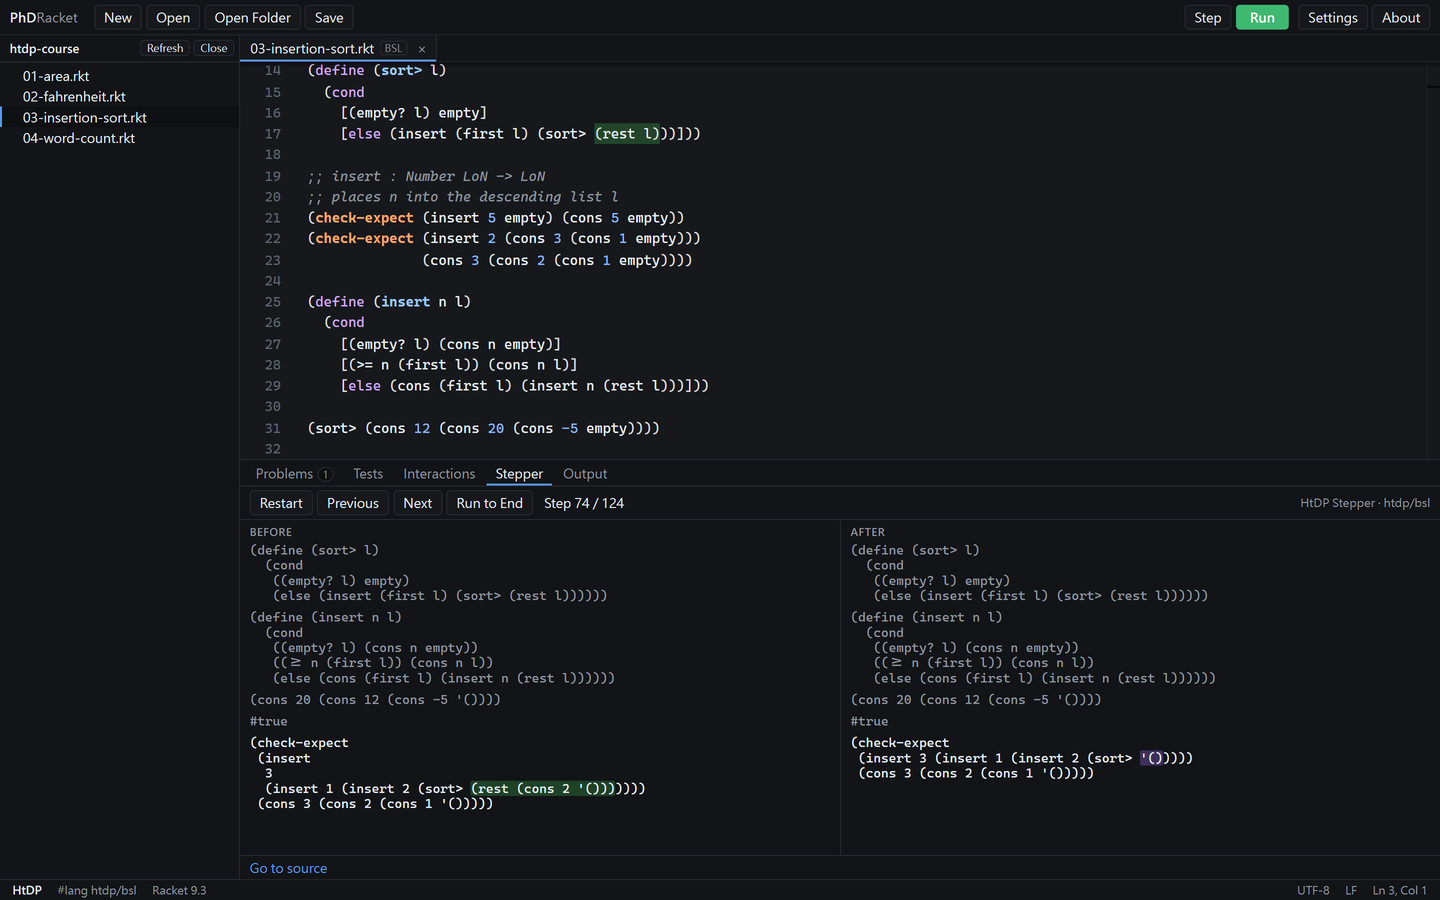
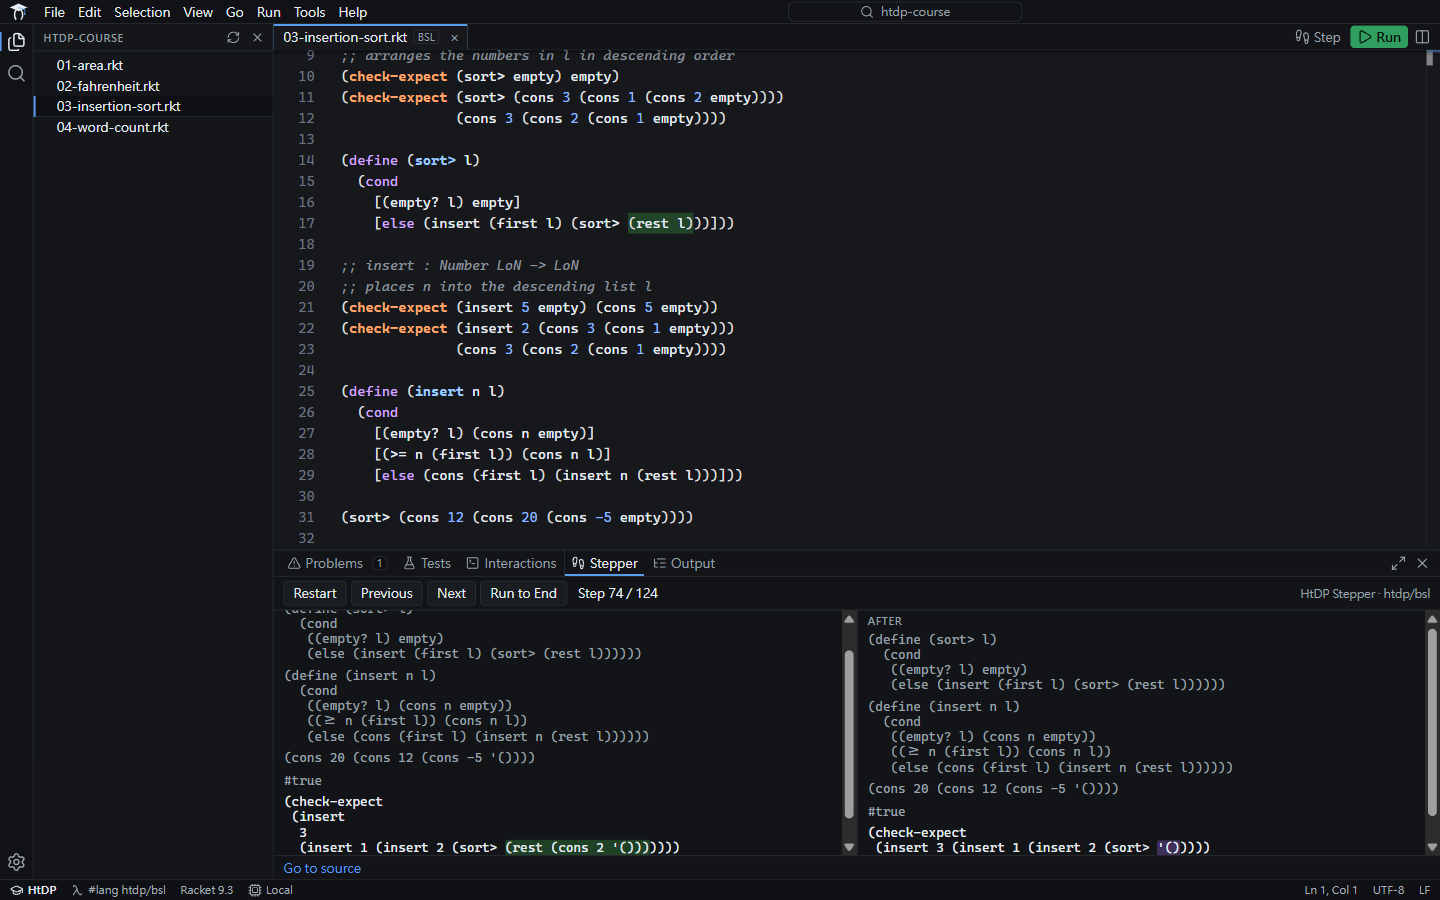
Update the documentation for 0.1.1 Beta
Release notes, the illustrated introduction rewritten for the workbench
with new screenshots (taken by apps/desktop/e2e/screenshots.mjs), and
the README status.

diff --git a/docs/introducing-phdracket.md b/docs/introducing-phdracket.md
@@ -2,9 +2,9 @@
 
 PhDRacket is a desktop IDE for students who write course work in the *How to Design Programs* (HtDP) teaching languages. It runs programs in the official Racket installation on your computer, through the same HtDP entry points that DrRacket uses, and it keeps `.rkt` files exactly as DrRacket expects them. You can move between the two editors at any time.
 
-What PhDRacket changes is the editing experience: tabs, a folder explorer, a modern editor, a dedicated test panel and an integrated Stepper.
+What PhDRacket changes is the editing experience: a full desktop workbench with menus, a command palette, split editors, a folder explorer, a dedicated test panel and an integrated Stepper.
 
-This article walks through the main features using a small example: insertion sort written with the HtDP design recipe in `#lang htdp/bsl`, with a data definition, signatures, purpose statements and four `check-expect` tests.
+This article walks through the main features using a small example: insertion sort written with the HtDP design recipe in `#lang htdp/bsl`, with a data definition, signatures, purpose statements and four `check-expect` tests. The screenshots show PhDRacket 0.1.1 Beta.
 
 ![The official HtDP Stepper, showing each reduction step side by side](images/introducing/01-stepper-dark.png)
 
@@ -14,12 +14,12 @@ This article walks through the main features using a small example: insertion so
 
 The layout follows the model HtDP courses already teach: Definitions in the editor, Interactions below.
 
-- **Run** evaluates the Definitions in a fresh environment, prints the values of top-level expressions and runs every test.
+- **Run** (Ctrl+Enter, or the green button above the editor) evaluates the Definitions in a fresh environment, prints the values of top-level expressions and runs every test.
 - **Interactions** evaluate in that environment, with input history and multi-line input.
 - **Stale-state notice.** If the Definitions change after a Run, the Interactions panel says so, so that new code is not tested against old definitions.
 - **Teaching-language rules apply.** In the screenshot, Beginning Student rejects `lambda`. The error message comes from Racket itself, with its source location.
 
-The folder explorer on the left opens an entire course or assignment directory, and files open in tabs.
+The Explorer on the left opens an entire course or assignment folder, and files open in tabs.
 
 ## Tests
 
@@ -42,17 +42,30 @@ The Stepper is one of the most effective tools in an HtDP course for understandi
 - **Source highlighting.** The expression being evaluated is highlighted in the editor, and *Go to source* jumps to it.
 - **Keyboard navigation** between steps.
 
-In the first screenshot, `(sort> (cons 3 (cons 1 (cons 2 '()))))` has unfolded into `(insert 3 (insert 1 (insert 2 (sort> '()))))`, which makes it clear how the recursion builds up and how it then reduces back to a value.
+In the first screenshot, the recursion has fully unfolded into `(insert 3 (insert 1 (insert 2 (sort> '()))))`, which makes it clear how it builds up and how it then reduces back to a value.
 
-## Editor
+## The workbench
 
-![Dark theme](images/introducing/05-dark.png)
+![Two files side by side in split editors](images/introducing/05-workbench.png)
 
-The editor is built on Monaco, the editor component of Visual Studio Code:
+PhDRacket works like a full desktop IDE, while staying quiet and focused on Racket:
 
-- find and replace, multiple cursors and bracket matching;
-- light, dark and high-contrast themes, with configurable fonts;
+- **Menus** (File, Edit, Selection, View, Go, Run, Tools, Help) and a **command palette** (Ctrl+Shift+P) where every command can be searched, with its shortcut. **Go to File** (Ctrl+P) opens any file in the folder.
+- **Split editors.** Split Right (Ctrl+\\) or Split Down, as many times as you like. A file open in two editors is one buffer, so a change in one appears in the other.
+- **Tabs** can be dragged between editors; right-click for Close Others, Split and Move into New Group.
+- **Find in Files** (Ctrl+Shift+F) searches the open folder.
+- **Editor:** find and replace, multiple cursors, Go to Symbol (Ctrl+T) and Go to Definition (F12) within a file, and Select Enclosing S-expression.
 - **Choose Language.** Click the language in the status bar to switch between the teaching languages and `#lang racket`. Only the language declaration changes, in the same format DrRacket writes, and the change can be undone.
+
+## Themes and settings
+
+![Settings, with the color themes](images/introducing/06-themes.png)
+
+Settings has pages for General, Appearance, Editor, Files and Keyboard Shortcuts:
+
+- **Themes:** PhDRacket Light and Dark, Midnight, Paper, two high-contrast themes, and two unofficial community themes, Waterloo Math Pink and Waterloo Black & Gold. Every theme is checked for readable contrast, and the editor, panels and menus change together.
+- **Keyboard shortcuts** can be changed.
+- **Auto save** can be off, after a delay, or when the editor or window loses focus. Closing brackets, closing quotes and word completion each have their own switch.
 
 ## Compatibility with DrRacket
 
@@ -66,7 +79,7 @@ Compatibility is the central design principle of PhDRacket.
 
 PhDRacket contains no code generation, AI completion or assignment solving, and it does not connect to Marmoset or any other grading system. It cannot know private grading tests and never claims that a file will pass them.
 
-Your code stays on your computer. PhDRacket needs no account and collects no telemetry. It connects to the network only to check for PhDRacket updates and announcements (both can be turned off in Settings) and, when you ask it to, to download the official Racket installer.
+Your code stays on your computer. PhDRacket needs no account and collects no telemetry. It connects to the network only to check for PhDRacket updates and announcements (both can be turned off in Settings), when you ask it to, to download the official Racket installer, and, if you use Run Remotely, to send the current file to a remote host you configured over your own SSH connection.
 
 ## Installation
 
@@ -86,7 +99,7 @@ The command downloads the latest release, verifies it against the checksum publi
 
 **Manual install.** Installers for Windows and macOS are available on the [Releases page](https://github.com/ouyang-matters/PhDRacket/releases).
 
-On first launch, a Setup dialog shows the Beta Terms of Use and asks for your course and theme, with defaults already selected. If Racket is already installed, PhDRacket finds it. If not, *Install Racket 9.3* downloads the official installer from racket-lang.org, verifies it against the published checksum and installs it. Installed copies check for new versions at startup and update with one click.
+PhDRacket is in beta. On first launch, a Setup dialog shows the Beta Terms of Use, which must be accepted, and asks for your course and theme, with defaults already selected. If Racket is already installed, PhDRacket finds it. If not, *Install Racket 9.3* downloads the official installer from racket-lang.org, verifies it against the published checksum and installs it. When a new version is available, PhDRacket shows it at startup and updates with one click.
 
 ---
 

diff --git a/docs/RELEASE_NOTES.md b/docs/RELEASE_NOTES.md
@@ -1,0 +1,65 @@
+# Release notes
+
+## 0.1.1 Beta
+
+A new workbench: PhDRacket now works like a full desktop IDE. Programs still
+run in your installed Racket, exactly as before, and `.rkt` files are still
+saved byte for byte.
+
+### Workbench
+
+- **Menus**: File, Edit, Selection, View, Go, Run, Tools and Help.
+- **Command palette** (Ctrl+Shift+P) and **Go to File** (Ctrl+P): every
+  command is searchable, with its keyboard shortcut.
+- **Split editors**: Split Right (Ctrl+\\) and Split Down, nested as you like.
+  A file open in two editors is one buffer, so changes appear in both.
+- **Tabs**: drag to reorder or into another group; right-click for Close
+  Others, Close to the Right, Split and Move into New Group; Reopen Closed
+  Editor (Ctrl+Shift+T).
+- **Sidebar** with Explorer and Search (**Find in Files**, Ctrl+Shift+F).
+- **Panels** (Problems, Tests, Interactions, Stepper, Output) can be
+  maximized and hidden (Ctrl+J).
+- **Editor**: Go to Symbol (Ctrl+T) and Go to Definition (F12) within a file,
+  Select Enclosing S-expression (Ctrl+Alt+Up), multiple cursors, line moves.
+
+### Appearance
+
+- **Themes**: PhDRacket Light and Dark, Midnight, Paper, High Contrast Dark
+  and Light, and two unofficial community themes, Waterloo Math Pink and
+  Waterloo Black & Gold. Every theme is checked for readable contrast.
+  Settings > Appearance shows previews; Preferences: Color Theme previews as
+  you move through the list.
+- A short startup screen, which never delays startup (Full, Reduced or Off).
+
+### Settings
+
+- Settings has pages: General, Appearance, Editor, Files and Keyboard
+  Shortcuts.
+- **Keyboard shortcuts** can be changed; conflicts are marked.
+- **Auto save**: off, after a delay, when the editor loses focus, or when the
+  window loses focus.
+- Separate switches for closing brackets, closing quotes, and word
+  completion (off by default).
+
+### Other changes
+
+- Closing or quitting with unsaved files asks in a new dialog with **Save**
+  (Save All), **Don't Save** and **Cancel**.
+- When a new version is available, PhDRacket shows it at startup.
+- Until the Beta Terms of Use are accepted, nothing but Setup can be used.
+- **Run Remotely** (optional): run long programs on your own SSH hosts, with
+  a Tasks panel. Run always stays on your computer.
+
+### Updating
+
+Copies of 0.1.0-beta.1 show an *Update 0.1.1* button in the status bar a few
+seconds after startup; click it, or use About > Check for updates. You can
+also use the Quick install command or the installer from the release page.
+
+## 0.1.0-beta.1
+
+First public beta: the Racket bridge with official HtDP semantics,
+Definitions and Interactions, the Tests panel, the official HtDP Stepper,
+tabs and a folder explorer, Choose Language, course profiles, the Setup
+dialog with Racket installation, and updates. This version is outdated; use
+0.1.1 Beta.

diff --git a/docs/TESTING.md b/docs/TESTING.md
@@ -12,6 +12,7 @@ involved, they run against the installed official Racket.
 | `pnpm test` | Frontend units: Run and Stepper state, source location conversion, the lexical scanner, new-file metadata, profiles |
 | `pnpm typecheck` | TypeScript types |
 | `node apps/desktop/e2e/smoke.mjs` | The desktop application end to end (Windows) |
+| `node apps/desktop/e2e/screenshots.mjs` | Retakes the screenshots of [Introducing PhDRacket](introducing-phdracket.md) from the real app (Windows) |
 | `node apps/desktop/e2e/workbench.mjs` | The workbench end to end with trusted input: menus, palette, Go to File, splits sharing one model, layouts, tab context menu, panel, every theme, Keyboard Shortcuts (Windows) |
 
 Rust tests that need Racket are skipped, with a message, when no Racket with

diff --git a/README.md b/README.md
@@ -116,8 +116,11 @@ connection.
 
 ## Status
 
-PhDRacket is in early development. The current focus is the student workflow
-(Phase 2 of the [roadmap](docs/ROADMAP.md)). See
+The current version is **0.1.1 Beta**; see the
+[release notes](docs/RELEASE_NOTES.md). PhDRacket is in early development and
+in beta: using it requires accepting the [Beta Terms of Use](docs/TERMS.md).
+The current focus is the student workflow (Phase 2 of the
+[roadmap](docs/ROADMAP.md)). See
 [Compatibility](docs/COMPATIBILITY.md) for exactly what is and is not
 guaranteed, and for known differences from DrRacket.
 

diff --git a/docs/STEPPER.md b/docs/STEPPER.md
@@ -19,7 +19,7 @@ Stepper adapter (backend/racket/private/stepper-adapter.rkt)
 
 ## Using the Stepper
 
-Press **Step** in the toolbar or Ctrl+Shift+Enter. PhDRacket collects every
+Press **Step** above the editor, choose Run > Stepper, or press Ctrl+Shift+Enter. PhDRacket collects every
 step of the program and opens the Stepper panel. Navigate with the buttons or
 the keyboard:
 
